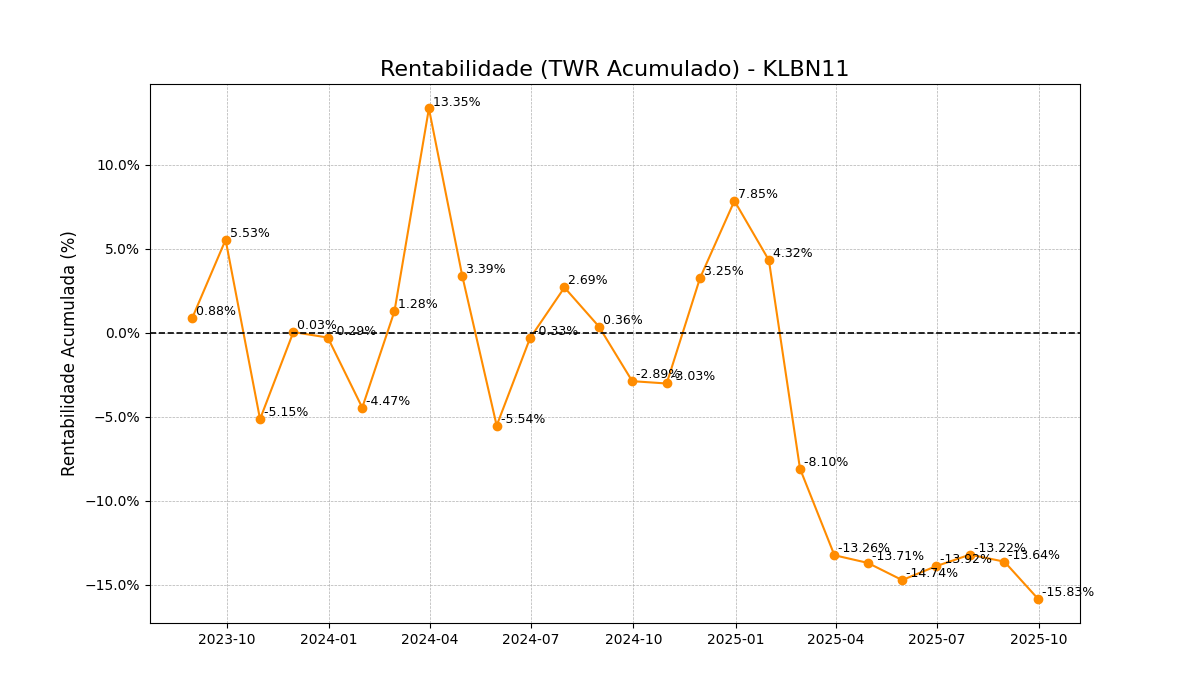
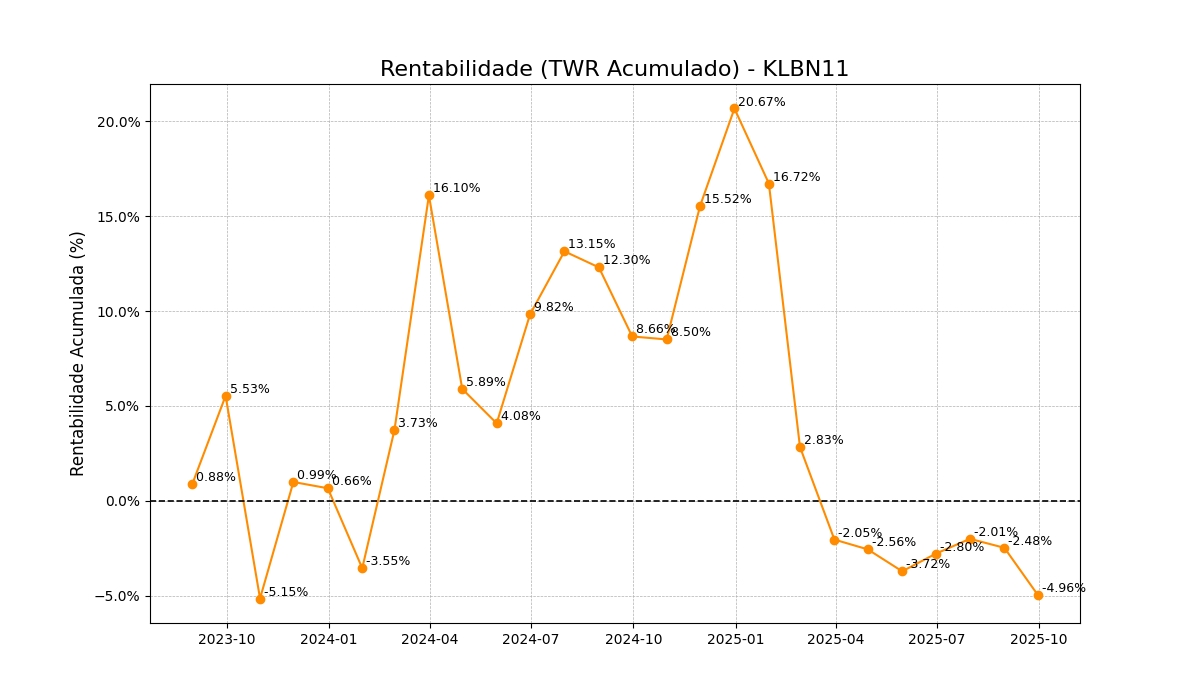
calculo twr funcionando

diff --git a/dlombello/main.py b/dlombello/main.py
@@ -23,7 +23,7 @@ def gerar_grafico_twr(df: pd.DataFrame, ativo: str):
         df (pd.DataFrame): DataFrame com o histórico, contendo 'date', 'vlr_mercado' e 'vlr_investido'.
         ativo (str): Nome do ativo para o título do gráfico.
     """
-    colunas_necessarias = ['date', 'vlr_mercado', 'vlr_investido']
+    colunas_necessarias = ['date', 'vlr_mercado', 'vlr_investido', 'proventos']
     if not all(col in df.columns for col in colunas_necessarias):
         print(f"DataFrame não contém as colunas necessárias ({', '.join(colunas_necessarias)}) para calcular o TWR.")
         return
@@ -38,8 +38,9 @@ def gerar_grafico_twr(df: pd.DataFrame, ativo: str):
     df_twr = df_twr.sort_values(by='date').reset_index(drop=True)
 
     # 2. Calcular o fluxo de caixa (aportes/retiradas) em cada período
-    # Renomeando para 'fluxo_mes' para corresponder à plataforma web.
-    df_twr['fluxo_mes'] = df_twr['vlr_investido'].diff().fillna(df_twr['vlr_investido'].iloc[0])
+    # O fluxo de caixa é a variação do capital investido MENOS os proventos recebidos no período.
+    # Proventos são parte do retorno, não do aporte, e são tratados como retirada de caixa.
+    df_twr['fluxo_mes'] = df_twr['vlr_investido'].diff().fillna(df_twr['vlr_investido'].iloc[0]) - df_twr['proventos']
 
     # 3. Calcular valores do período anterior e fluxos acumulados
     # O .shift(1) "puxa" o valor da linha anterior.
